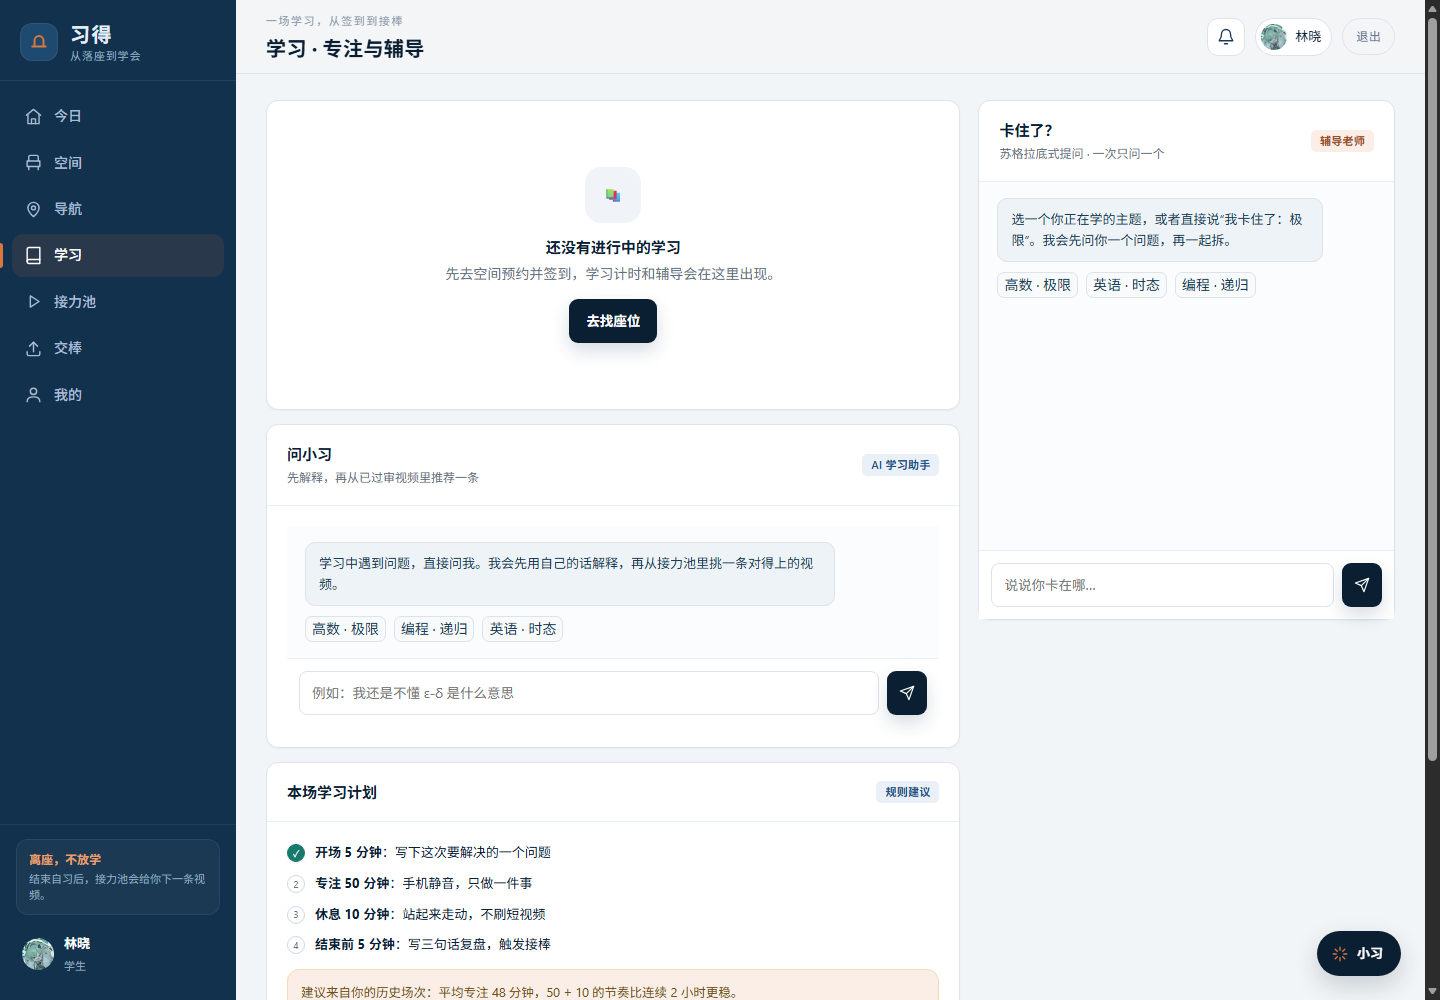
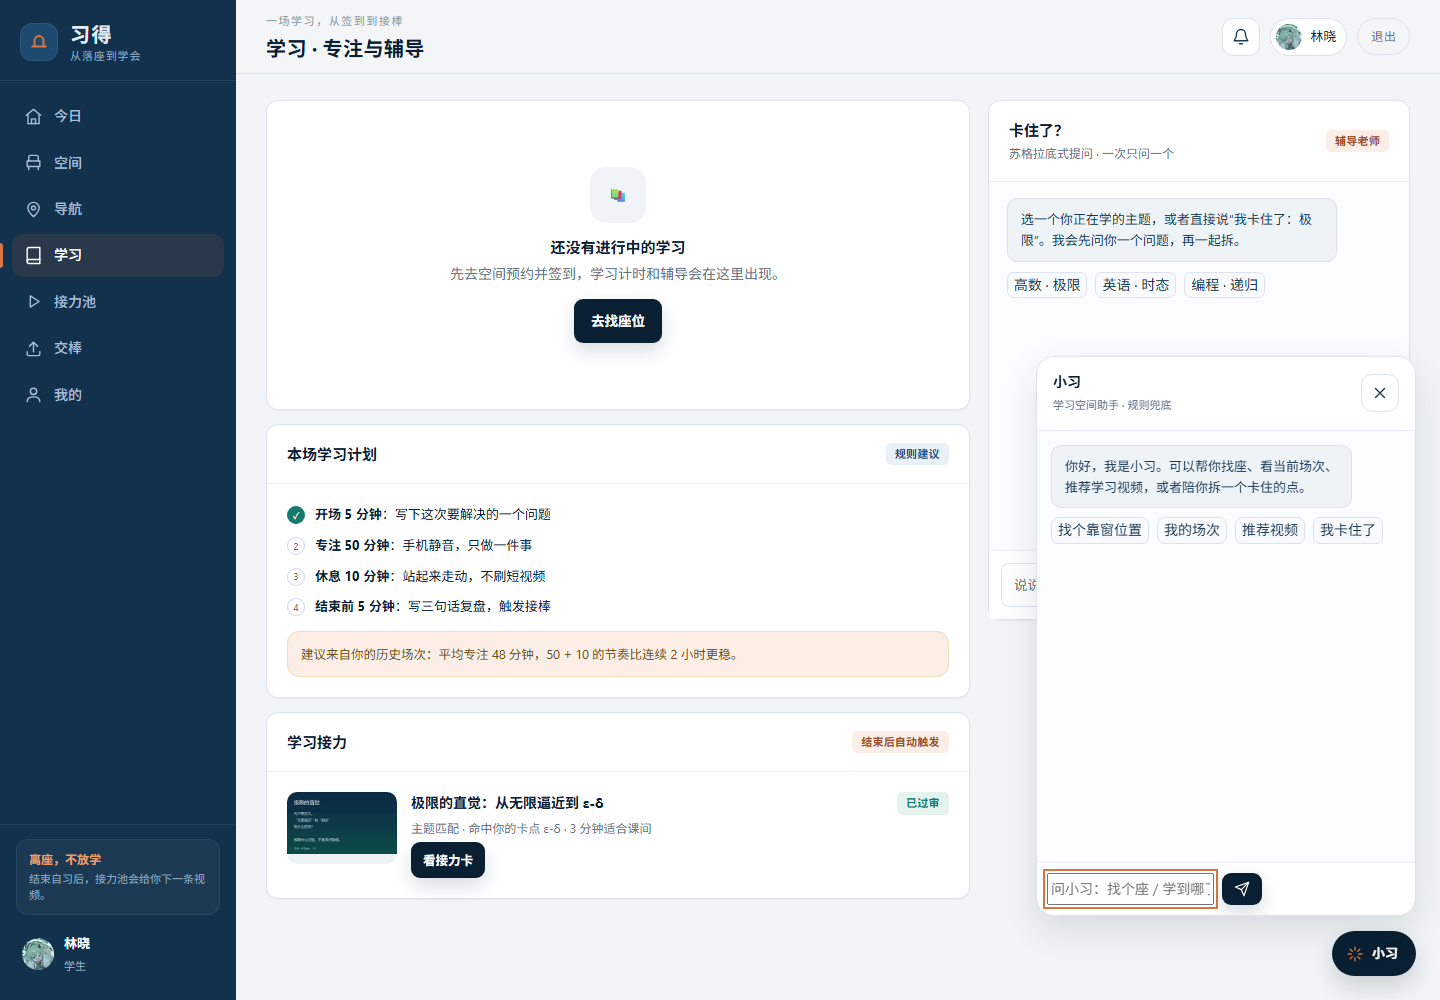
feat: 小习改为右下角全局助手并联动学习答疑推荐

diff --git a/templates/learn.html b/templates/learn.html
@@ -11,24 +11,6 @@
     </section>
 
 
-    <section class="card" id="askCard">
-      <div class="card-head"><div><h3>问小习</h3><span class="sub">先解释，再从已过审视频里推荐一条</span></div><span class="badge blue">AI 学习助手</span></div>
-      <div class="card-body">
-        <div class="tutor-log" id="askLog" style="max-height:280px">
-          <div class="bubble agent">学习中遇到问题，直接问我。我会先用自己的话解释，再从接力池里挑一条对得上的视频。</div>
-          <div class="chips">
-            <button data-ask="极限为什么等于函数值？">高数 · 极限</button>
-            <button data-ask="递归怎么写才不会死循环？">编程 · 递归</button>
-            <button data-ask="英语时态怎么判断？">英语 · 时态</button>
-          </div>
-        </div>
-        <form class="tutor-input" id="askForm">
-          <input class="input" id="askText" placeholder="例如：我还是不懂 ε-δ 是什么意思" autocomplete="off">
-          <button class="btn primary sm" type="submit">{{ icon('send') }}</button>
-        </form>
-      </div>
-    </section>
-
     <section class="card">
       <div class="card-head"><h3>本场学习计划</h3><span class="badge blue">规则建议</span></div>
       <div class="card-body">
@@ -162,35 +144,6 @@
   document.querySelectorAll('#topicChips button').forEach(b => b.addEventListener('click', () => startTutor(b.dataset.topic)));
   document.getElementById('tutorForm').addEventListener('submit', e => { e.preventDefault(); const input = document.getElementById('tutorText'); const t = input.value.trim(); input.value = ''; answerTutor(t); });
 
-
-  /* 问小习：先回答，再推荐已过审视频 */
-  const askLog = document.getElementById('askLog');
-  const askAdd = (text, cls) => { const d = document.createElement('div'); d.className = 'bubble ' + (cls || 'agent'); d.textContent = text; askLog.appendChild(d); askLog.scrollTop = askLog.scrollHeight; return d; };
-  async function askXiaoXi(text) {
-    if (!text) return;
-    askAdd(text, 'user');
-    try {
-      const r = await ZX.api('/api/learning/ask', { method: 'POST', body: { text } });
-      askAdd(r.answer || r.reply || '我先按你的问题拆一下。');
-      if (r.check_question) askAdd('你可以先回答这个小问题：' + r.check_question, 'note');
-      if (r.contents && r.contents.length) {
-        askAdd('从已过审的接力池里，给你挑了这几条：', 'note');
-        const box = document.createElement('div'); box.className = 'ask-recos';
-        r.contents.forEach(c => {
-          const card = document.createElement('div'); card.className = 'ask-reco';
-          card.innerHTML = '<div><b>' + ZX.escapeHtml(c.title || '学习视频') + '</b><small>' + ZX.escapeHtml(c.reason || '') + '</small></div>';
-          const btn = document.createElement('button'); btn.className = 'btn soft sm'; btn.textContent = '看这条';
-          btn.addEventListener('click', () => {
-            ZX.openModal('<div class="modal-head"><h3>' + ZX.escapeHtml(c.title || '学习视频') + '</h3><button class="icon-btn" data-close>×</button></div><div class="modal-body"><video controls autoplay style="width:100%;max-height:360px;background:#000;border-radius:12px" src="' + (c.file_url || '') + '"></video><div class="small muted" style="margin-top:10px">' + ZX.escapeHtml(c.reason || '') + '</div></div>');
-          });
-          card.appendChild(btn); box.appendChild(card);
-        });
-        askLog.appendChild(box); askLog.scrollTop = askLog.scrollHeight;
-      }
-    } catch (e) { askAdd('刚才没接上：' + e.message, 'note'); }
-  }
-  document.querySelectorAll('[data-ask]').forEach(b => b.addEventListener('click', () => askXiaoXi(b.dataset.ask)));
-  document.getElementById('askForm').addEventListener('submit', e => { e.preventDefault(); const input = document.getElementById('askText'); const t = input.value.trim(); input.value = ''; askXiaoXi(t); });
 
   (async function init() {
     try { const r = await ZX.api('/api/sessions/current'); renderSession(r.session); } catch (e) { renderSession(null); }

diff --git a/static/js/app.js b/static/js/app.js
@@ -91,6 +91,7 @@
     const open = () => { panel.classList.add('open'); panel.setAttribute('aria-hidden', 'false'); setTimeout(() => document.getElementById('assistantText').focus(), 50); };
     const close = () => { panel.classList.remove('open'); panel.setAttribute('aria-hidden', 'true'); };
     fab.addEventListener('click', () => panel.classList.contains('open') ? close() : open());
+    if (location.hash === '#xiaoxi') open();
     document.getElementById('assistantClose').addEventListener('click', close);
 
     const add = (text, cls) => {
@@ -101,6 +102,27 @@
       body.scrollTop = body.scrollHeight;
       return el;
     };
+    const renderRecos = (items) => {
+      if (!items || !items.length) return;
+      add('从已过审视频里给你挑了这些：', 'note');
+      const box = document.createElement('div');
+      box.className = 'ask-recos';
+      items.forEach(c => {
+        const card = document.createElement('div');
+        card.className = 'ask-reco';
+        card.innerHTML = '<div><b>' + ZX.escapeHtml(c.title || '学习视频') + '</b><small>' + ZX.escapeHtml(c.reason || '') + '</small></div>';
+        const b = document.createElement('button');
+        b.className = 'btn soft sm';
+        b.textContent = '看这条';
+        b.addEventListener('click', () => {
+          ZX.openModal('<div class="modal-head"><h3>' + ZX.escapeHtml(c.title || '学习视频') + '</h3><button class="icon-btn" data-close>×</button></div><div class="modal-body"><video controls autoplay style="width:100%;max-height:360px;background:#000;border-radius:12px" src="' + (c.file_url || '') + '"></video><div class="small muted" style="margin-top:10px">' + ZX.escapeHtml(c.reason || '') + '</div></div>');
+        });
+        card.appendChild(b);
+        box.appendChild(card);
+      });
+      body.appendChild(box);
+      body.scrollTop = body.scrollHeight;
+    };
     const ask = async (text) => {
       if (!text) return;
       add(text, 'user');
@@ -108,7 +130,19 @@
       try {
         const res = await ZX.api('/api/agent/ask', { method: 'POST', body: { text } });
         tip.remove();
-        add(res.reply || '我在。');
+        let answer = res.reply || '我在。';
+        let learning = null;
+        const learningIntent = res.intent === 'stuck' || res.intent === 'unknown';
+        if (learningIntent) {
+          try {
+            learning = await ZX.api('/api/learning/ask', { method: 'POST', body: { text } });
+            if (learning && learning.answer) answer = learning.answer;
+          } catch (e) {}
+        }
+        add(answer);
+        if (learning && learning.check_question) add('你可以先回答这个小问题：' + learning.check_question, 'note');
+        const contents = (learning && learning.contents) || (res.data && res.data.contents) || [];
+        renderRecos(contents);
         if (res.tool_calls && res.tool_calls.length) {
           add('调用：' + res.tool_calls.map(t => (t.tool || t.name || 'tool')).join(' · '), 'note');
         }

diff --git a/app.py b/app.py
@@ -463,6 +463,9 @@ def api_agent_ask():
     try:
         from services import agents
         out = agents.ask(text, u['id'], sess['id'] if sess else None)
+        for c in (out.get('data') or {}).get('contents', []):
+            c['file_url'] = media_url(c.get('file_path'))
+            c['cover_url'] = media_url(c.get('cover_path'))
         return jsonify({'ok': True, **out})
     except Exception as e:
         return jsonify({'ok': True, 'intent': 'unknown', 'agent': 'Router',

diff --git a/README.md b/README.md
@@ -24,7 +24,7 @@
 - 空间感知：ESP32 上报 API + 管理端设备模拟器（设备状态只补充实时在场，不覆盖预约）
 - 多建筑/多楼层：选座页先选地点（建筑 + 楼层），再选座位；演示含图书馆 2F/3F、教学楼 A 1F，共 79 座
 - 管理员地图：`/admin/maps` 上传楼层底图，选座页叠加显示；座位坐标与 A* 路网仍由数据库决定
-- 学习页问小习：先给解释与检查问题，再从已过审视频里推荐 1–3 条，可当场播放
+- 右下角小习：先给解释与检查问题，再从已过审视频里推荐 1–3 条，可当场播放
 - 室外导航：校门 → 图书馆/教学楼 A，显示距离、方向、步行时间，可跳转手机地图；配置 AMAP_JS_KEY 后可扩展高德路线
 - 个人主页：点击头像/封面即可上传更换，编辑昵称/学院/学习签名/兴趣方向
 

diff --git a/docs/地图与学习助手.md b/docs/地图与学习助手.md
@@ -15,7 +15,7 @@
 
 ## 2. 学习页问小习
 
-入口：学习页「问小习」卡片，或全局小习浮窗。
+入口：页面右下角「小习」浮窗（学习页同样可用）。
 
 接口：`POST /api/learning/ask`，body `{"text": "..."}`。
 
